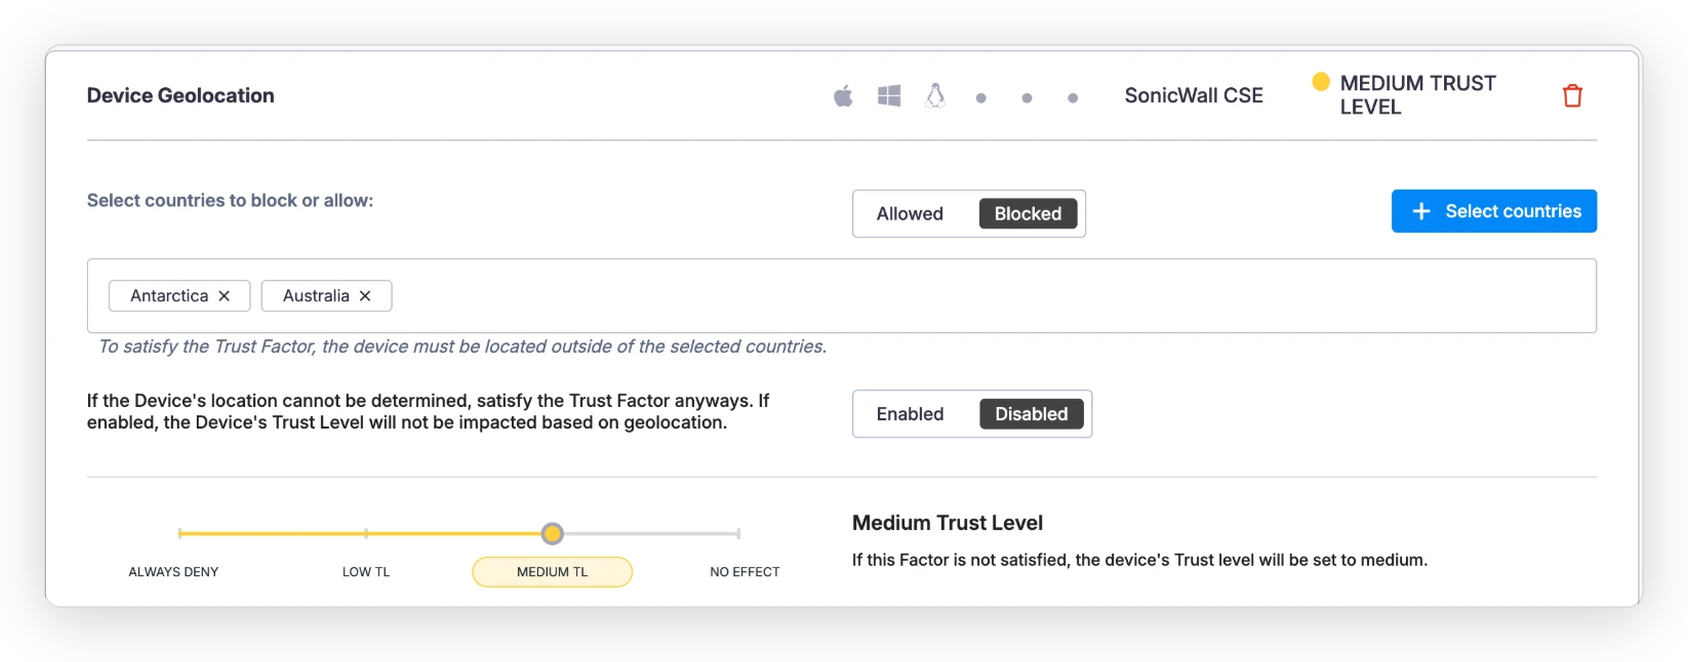
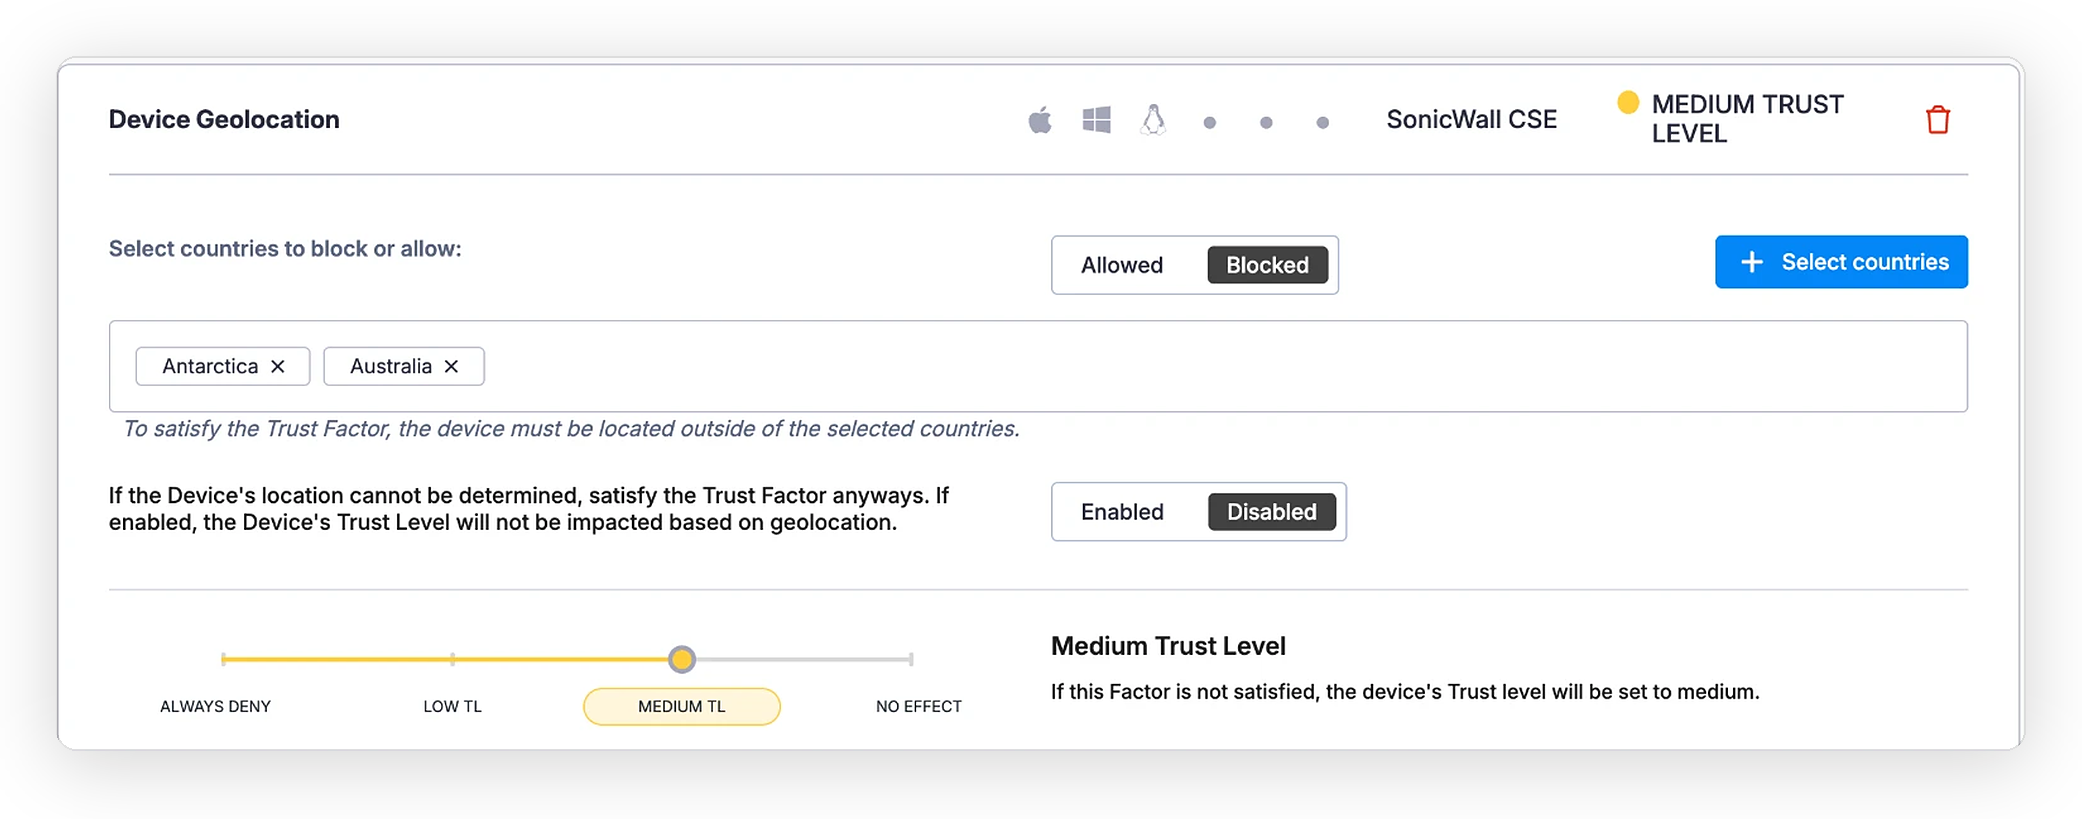
Restructure work sections; rebuild Trust Factor screenshots
Sidebar is now About me, Resume, Docs, Content architecture, Content
design, Automations. The two IA case studies move under a Content
architecture category, and the published-docs page is labelled Docs via
the sidebar rather than by renaming the page. The "What's here" list on
About me is relabelled to match.

Screenshots are rebuilt from the original uploads rather than the
processed copies, so each passes through a single resample: the before
image keeps its native 1970px width untouched, and the after image is
upscaled once to match with an unsharp pass. Framing scales with them.

Claude-Session: https://claude.ai/code/session_01LSpc9GfWinUYVZHRac1AsR

diff --git a/sidebars.js b/sidebars.js
@@ -3,9 +3,15 @@ const sidebars = {
   workSidebar: [
     'intro',
     'resume',
-    'published-cse-docs',
-    'docs-engineering/cse-ia-rework-case-study',
-    'docs-engineering/ia-model-case-study',
+    {type: 'doc', id: 'published-cse-docs', label: 'Docs'},
+    {
+      type: 'category',
+      label: 'Content architecture',
+      items: [
+        'docs-engineering/cse-ia-rework-case-study',
+        'docs-engineering/ia-model-case-study',
+      ],
+    },
     {
       type: 'category',
       label: 'Content design',

diff --git a/docs/intro.md b/docs/intro.md
@@ -14,8 +14,8 @@ SonicWall's hardware and cloud product publishing flow.
 
 ## What's here
 
-- **Published docs** — live pages I write and maintain on the SonicWall Cloud Secure Edge docs site: one architecture page, one integration guide, one concepts page.
-- **Information architecture** — the CSE sidebar restructure, and the estate-wide IA model built to compare unlike doc sets on one axis.
+- **Docs** — live pages I write and maintain on the SonicWall Cloud Secure Edge docs site: one architecture page, one integration guide, one concepts page.
+- **Content architecture** — the CSE sidebar restructure, and the estate-wide IA model built to compare unlike doc sets on one axis.
 - **Content design** — in-product strings and the structure around them: three Cloud Secure Edge
   surfaces where the copy turned out to be downstream of something structural.
 - **Automations** — projects where I treated documentation as infrastructure: CI jobs, AI-assisted analysis, and tooling that keeps docs correct instead of just polished once and left to rot.
